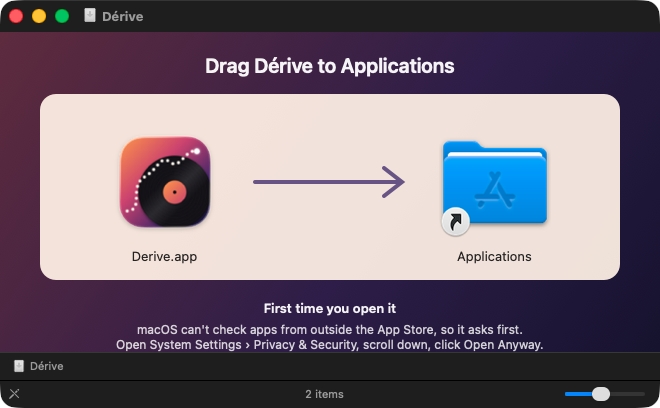
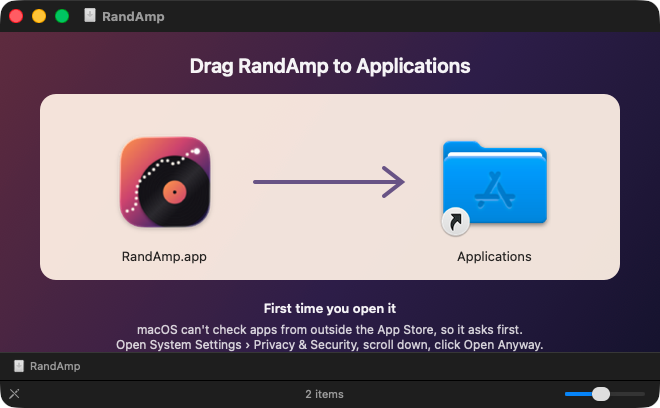
Show RandAmp in the install screenshots

diff --git a/README.md b/README.md
@@ -52,7 +52,7 @@ RandAmp was called Dérive until version 1.0.
    **Open Anyway** next to the message about RandAmp. Confirm with your password or Touch ID,
    then click **Open Anyway** once more.
 
-   <img src="Resources/install-open-anyway.png" width="470" alt="System Settings, Privacy & Security: RandAmp.app was blocked to protect your Mac, Open Anyway">
+   <img src="Resources/install-open-anyway.png" width="440" alt="System Settings, Privacy & Security: RandAmp.app was blocked to protect your Mac, Open Anyway">
 
    Clicked Move to Trash by mistake? Open `RandAmp.dmg` again, drag RandAmp onto Applications,
    and start over at step 3.
